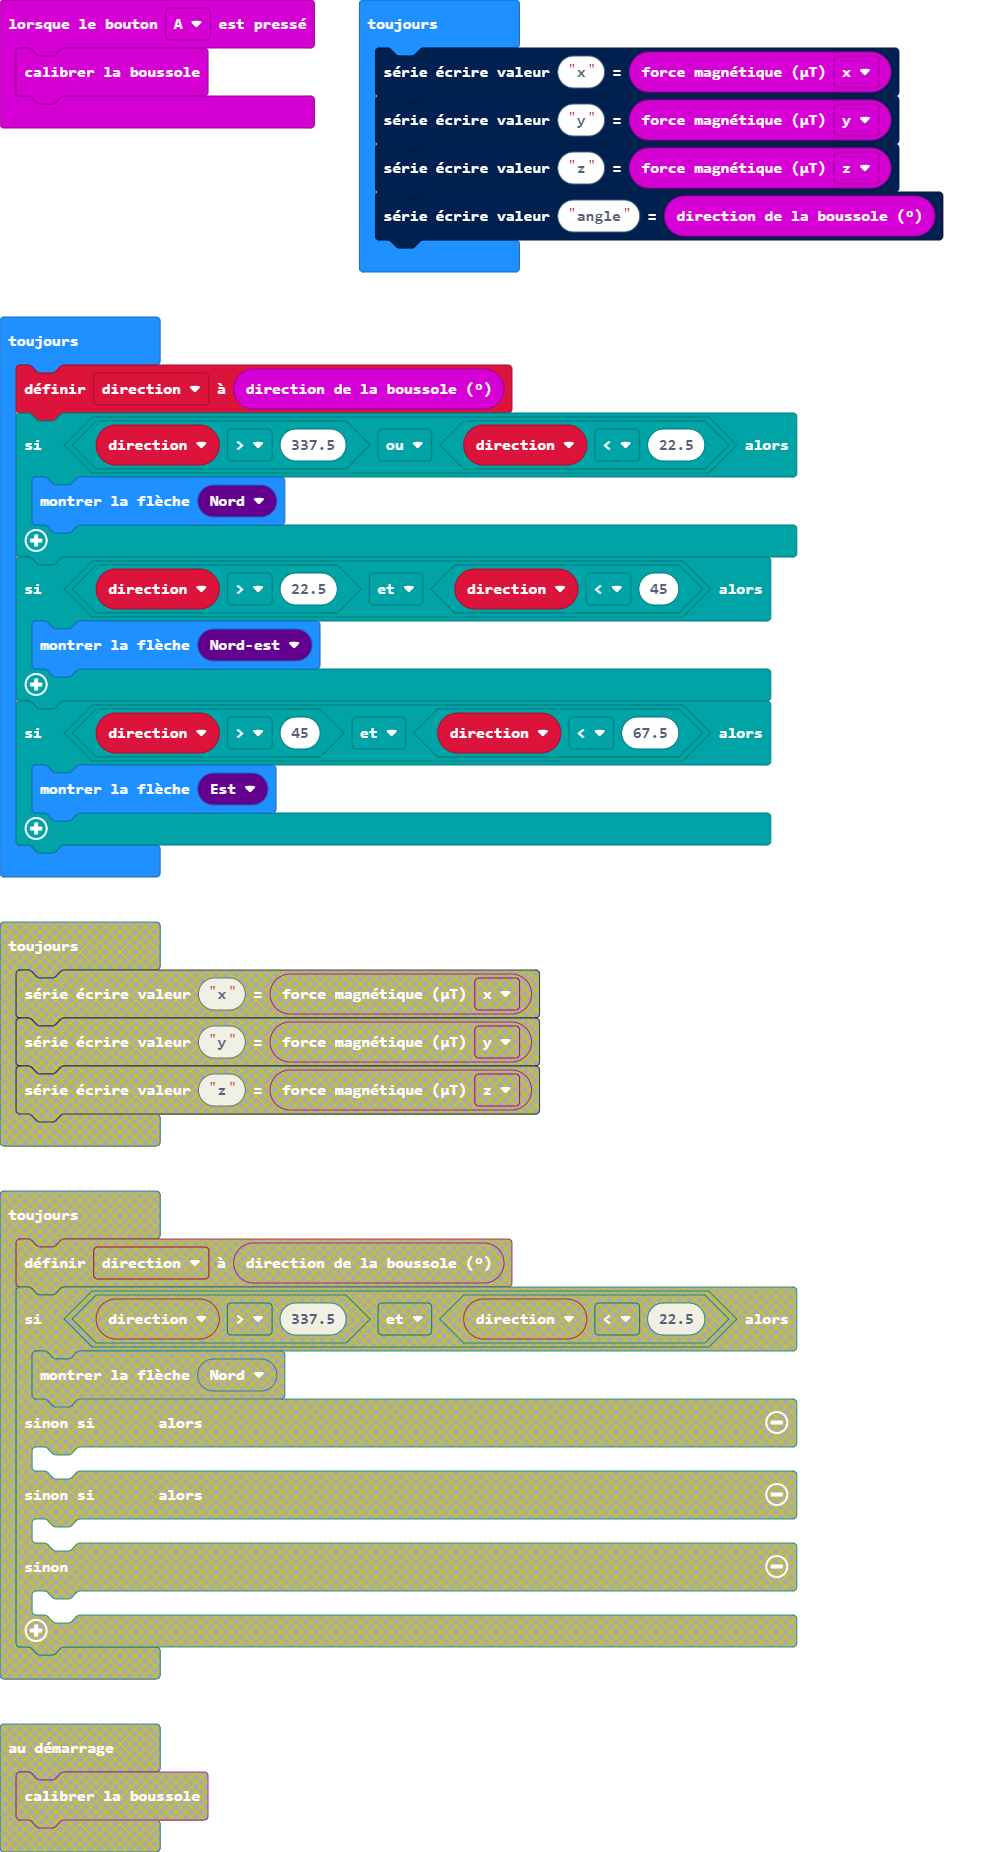
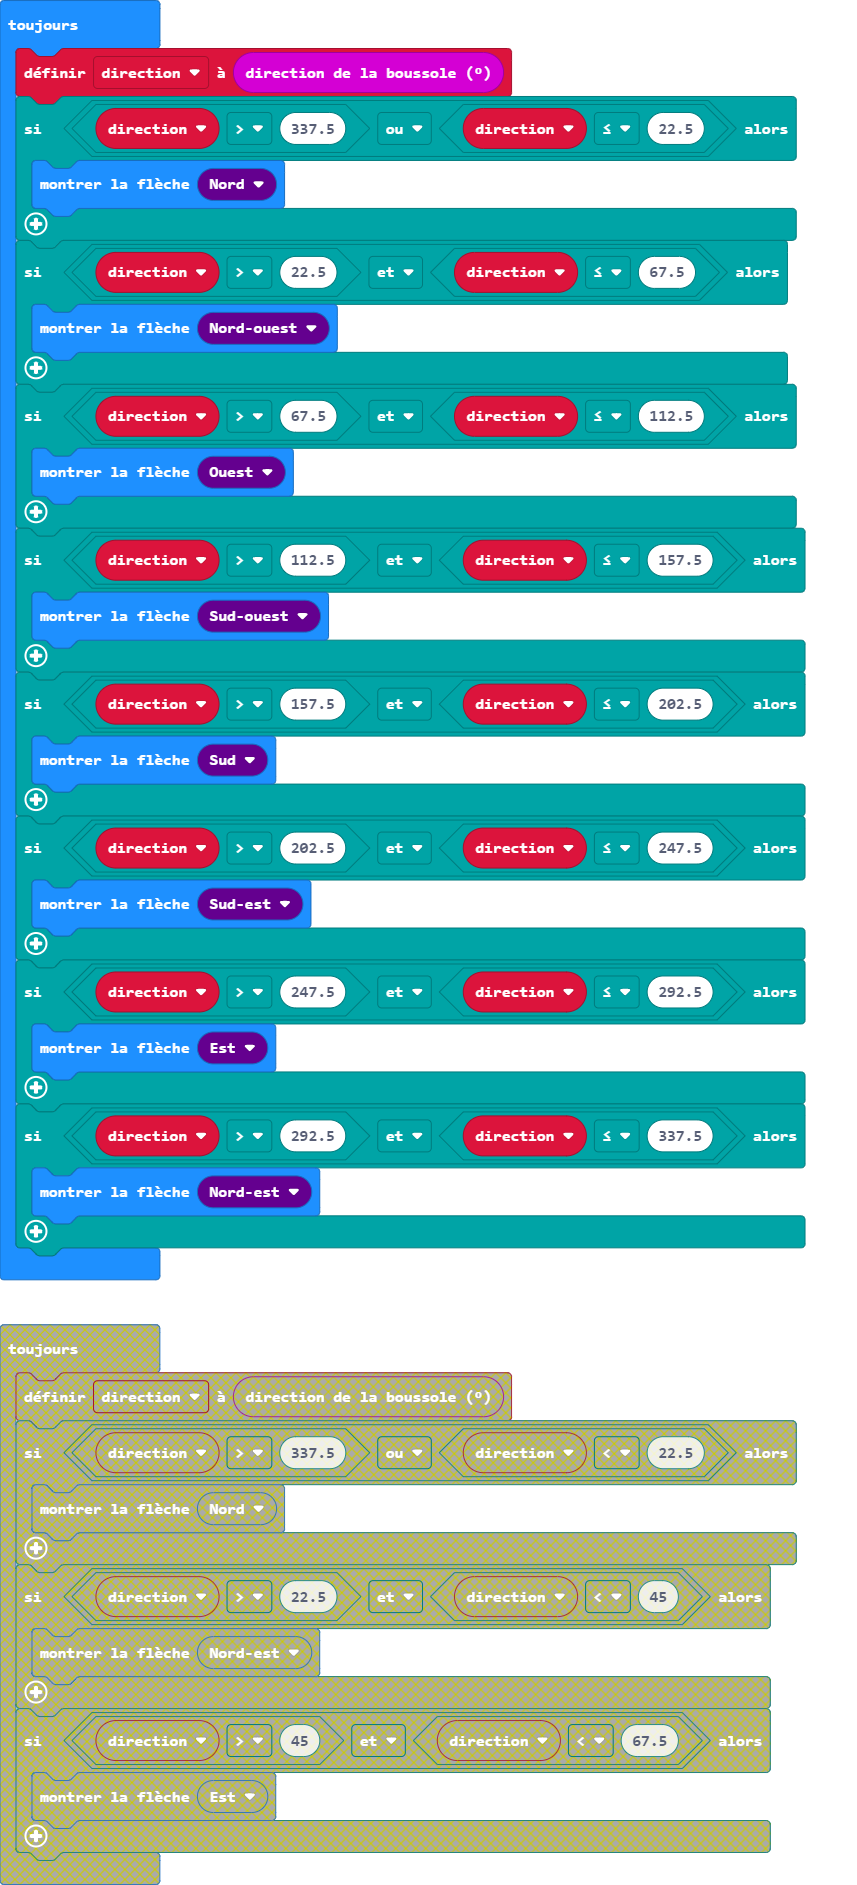
Mise à jour pxt.json, main.blocks, main.ts, main.py

diff --git a/main.ts b/main.ts
@@ -1,46 +1,37 @@
 let direction = 0
-input.onButtonPressed(Button.A, function on_button_pressed_a() {
+input.onButtonPressed(Button.A, function () {
     input.calibrateCompass()
 })
-basic.forever(function on_forever() {
+basic.forever(function () {
     serial.writeValue("x", input.magneticForce(Dimension.X))
     serial.writeValue("y", input.magneticForce(Dimension.Y))
     serial.writeValue("z", input.magneticForce(Dimension.Z))
     serial.writeValue("angle", input.compassHeading())
 })
-basic.forever(function on_forever2() {
-    
+basic.forever(function () {
     direction = input.compassHeading()
     if (direction > 337.5 || direction <= 22.5) {
         basic.showArrow(ArrowNames.North)
     }
-    
     if (direction > 22.5 && direction <= 67.5) {
-        basic.showArrow(ArrowNames.NorthEast)
+        basic.showArrow(ArrowNames.NorthWest)
     }
-    
     if (direction > 67.5 && direction <= 112.5) {
-        basic.showArrow(ArrowNames.East)
+        basic.showArrow(ArrowNames.West)
     }
-    
     if (direction > 112.5 && direction <= 157.5) {
-        basic.showArrow(ArrowNames.SouthEast)
+        basic.showArrow(ArrowNames.SouthWest)
     }
-    
     if (direction > 157.5 && direction <= 202.5) {
         basic.showArrow(ArrowNames.South)
     }
-    
     if (direction > 202.5 && direction <= 247.5) {
-        basic.showArrow(ArrowNames.SouthWest)
+        basic.showArrow(ArrowNames.SouthEast)
     }
-    
     if (direction > 247.5 && direction <= 292.5) {
-        basic.showArrow(ArrowNames.West)
+        basic.showArrow(ArrowNames.East)
     }
-    
     if (direction > 292.5 && direction <= 337.5) {
-        basic.showArrow(ArrowNames.NorthWest)
+        basic.showArrow(ArrowNames.NorthEast)
     }
-    
 })

diff --git a/main.py b/main.py
@@ -17,17 +17,17 @@ def on_forever2():
     if direction > 337.5 or direction <= 22.5:
         basic.show_arrow(ArrowNames.NORTH)
     if direction > 22.5 and direction <= 67.5:
-        basic.show_arrow(ArrowNames.NORTH_EAST)
+        basic.show_arrow(ArrowNames.NORTH_WEST)
     if direction > 67.5 and direction <= 112.5:
-        basic.show_arrow(ArrowNames.EAST)
+        basic.show_arrow(ArrowNames.WEST)
     if direction > 112.5 and direction <= 157.5:
-        basic.show_arrow(ArrowNames.SOUTH_EAST)
+        basic.show_arrow(ArrowNames.SOUTH_WEST)
     if direction > 157.5 and direction <= 202.5:
         basic.show_arrow(ArrowNames.SOUTH)
     if direction > 202.5 and direction <= 247.5:
-        basic.show_arrow(ArrowNames.SOUTH_WEST)
+        basic.show_arrow(ArrowNames.SOUTH_EAST)
     if direction > 247.5 and direction <= 292.5:
-        basic.show_arrow(ArrowNames.WEST)
+        basic.show_arrow(ArrowNames.EAST)
     if direction > 292.5 and direction <= 337.5:
-        basic.show_arrow(ArrowNames.NORTH_WEST)
+        basic.show_arrow(ArrowNames.NORTH_EAST)
 basic.forever(on_forever2)
